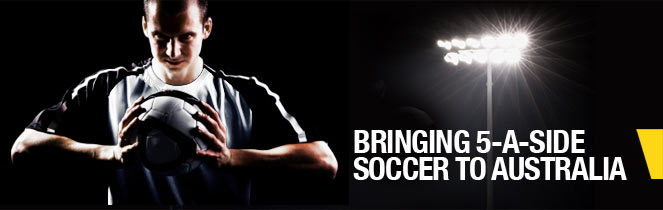
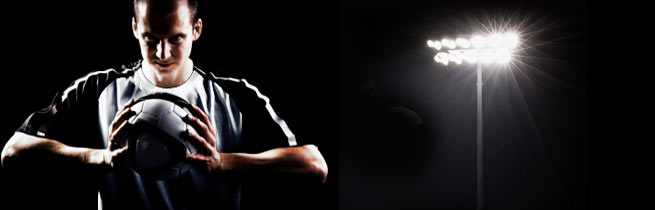
homepage almost done, still need carousel
more content

Changed region(s): [[0.0, 0.0, 1.0, 1.0], [0.1527, 0.8857, 0.1832, 1.0], [0.3359, 0.9143, 0.3664, 0.9714]]

diff --git a/public/stylesheets/fonts.css b/public/stylesheets/fonts.css
@@ -14,17 +14,27 @@
 	font-style: normal;
 }
 
+body h1{
+	color:#fff;
+	line-height:0.8em;
+	text-transform:uppercase;
+	font-family: 'HelveticaNeueLTStd77BoldConde', helvetica, arial, sans-serif;
+	font-size:30px;	
+	}
+	#home h1{
+		font-size:40px;
+	}
 body h2{	
 	color:#5a5a5a;
 	text-transform:uppercase;
 	font-family: 'HelveticaNeueLTStd87HeavyCond', helvetica, arial, sans-serif;
 	font-size:25px;
-	}
+}
 
-	h2#title{
-		color:#fdd716;
-		font-family: 'HelveticaNeueLTStd77BoldConde', helvetica, arial, sans-serif;
-		font-size:30px;
+h2#title{
+	color:#fdd716;
+	font-family: 'HelveticaNeueLTStd77BoldConde', helvetica, arial, sans-serif;
+	font-size:30px;
 }
 
 h3{
@@ -36,4 +46,28 @@ h3{
 p{
 	margin:10px 0;
 	font-size:12px;
+	line-height:1.5em;
+}
+
+#slogan p{
+	color:#fff;
+	margin:0;
+	font-family: 'HelveticaNeueLTStd77BoldConde', helvetica, arial, sans-serif;
+	font-size:21px;
+	text-transform: uppercase;
+	}
+	#slogan p span{
+		color:#fdd716;
+	}
+
+#home .info p{
+	color:#fff;
+	font-family: 'HelveticaNeueLTStd77BoldConde', helvetica, arial, sans-serif;
+	font-size:22px;
+	line-height:0.95em;
+	margin:0;
+	}
+	#home .info p.notice{
+		font-size:30px;
+		color:#fdd716;
 }

diff --git a/public/stylesheets/home.css b/public/stylesheets/home.css
@@ -1,10 +1,34 @@
 #home #banner{
 	height:413px;
 	background-image:url('/images/banners/home.jpg');
-}
+	background-position:left;
+	}
 
-#home #logo{
-	padding:30px 50px 0 0;
-	text-align:right;
-	right:20px;
+	#home #logo{
+		padding:30px 50px 0 0;
+		text-align:right;
+		right:20px;
+	}
+	
+	#home #slogan{
+		width:400px;
+	}
+	#home .info{
+		position:absolute;
+		width:270px;
+		height:80px;
+		bottom:20px;
+		padding:10px 20px;
+		left:0;
+	}
+
+	#home .info.bg{
+		background:#000;
+		opacity:0.6;
+		filter:alpha(opacity=60);			/* IE */
+	}
+
+#home-body{
+	padding:20px;
+	overflow:auto;
 }

diff --git a/public/stylesheets/body.css b/public/stylesheets/body.css
@@ -1,19 +1,24 @@
 #body{
-	height:600px;
 	background:#ebebeb;
 	}
 	#main{
-		margin-right:311px;
-	}
-	* html #main{
-		margin-right:300px;
-	}
+		margin-right:310px;
+		border-right:1px solid #cecece;
+		}
+		img.page-body{
+			border:1px solid #d7d7d7;
+			float:left;
+			margin:10px 20px 10px 0;
+		}
+		p.clear{clear:left;}
+	* html #main{margin-right:300px;}
+	
 	#sidebar{
-		border-left:1px solid #cecece;
 		float:right;
 		height:100%;
 		width:310px;
 		color:#5a5a5a;
+		line-height:110%;
 		}
 		#sidebar p a{
 			color:#5a5a5a;

diff --git a/public/stylesheets/banner.css b/public/stylesheets/banner.css
@@ -12,3 +12,15 @@
 		bottom:30px;
 		left:30px;
 	}
+	#slogan{
+		position:absolute;
+		right:0;
+		bottom:30px;
+		width:315px;
+		background:url('/images/embed/slogan-bg-std.png') no-repeat center right;
+	}
+	#slogan.enhanced{
+		bottom:auto;
+		top:140px;
+		background:url('/images/embed/slogan-bg-enhanced.png') no-repeat bottom right;
+	}

diff --git a/public/stylesheets/menu.css b/public/stylesheets/menu.css
@@ -15,7 +15,7 @@ ul#main-menu{
 		border-left:1px solid #fee460;
 		}
 		#main-menu li:first-child{border-left:0;}
-		#main-menu li:last-child{border-right:0;}
+		#main-menu li:last-child, #main-menu li.last-child{border-right:0;}
 		li#home-link{width:97px;}
 		li#what-link{width:164px;}
 		li#facility-link{width:112px;}

diff --git a/public/stylesheets/tabs.css b/public/stylesheets/tabs.css
@@ -23,6 +23,6 @@ ul.tabs{
 
 div.panes{
 	padding:30px;
-	height:400px;
+	min-height:400px;
 	background:#ebebeb url('/images/embed/body.png') repeat-x top;
 }
